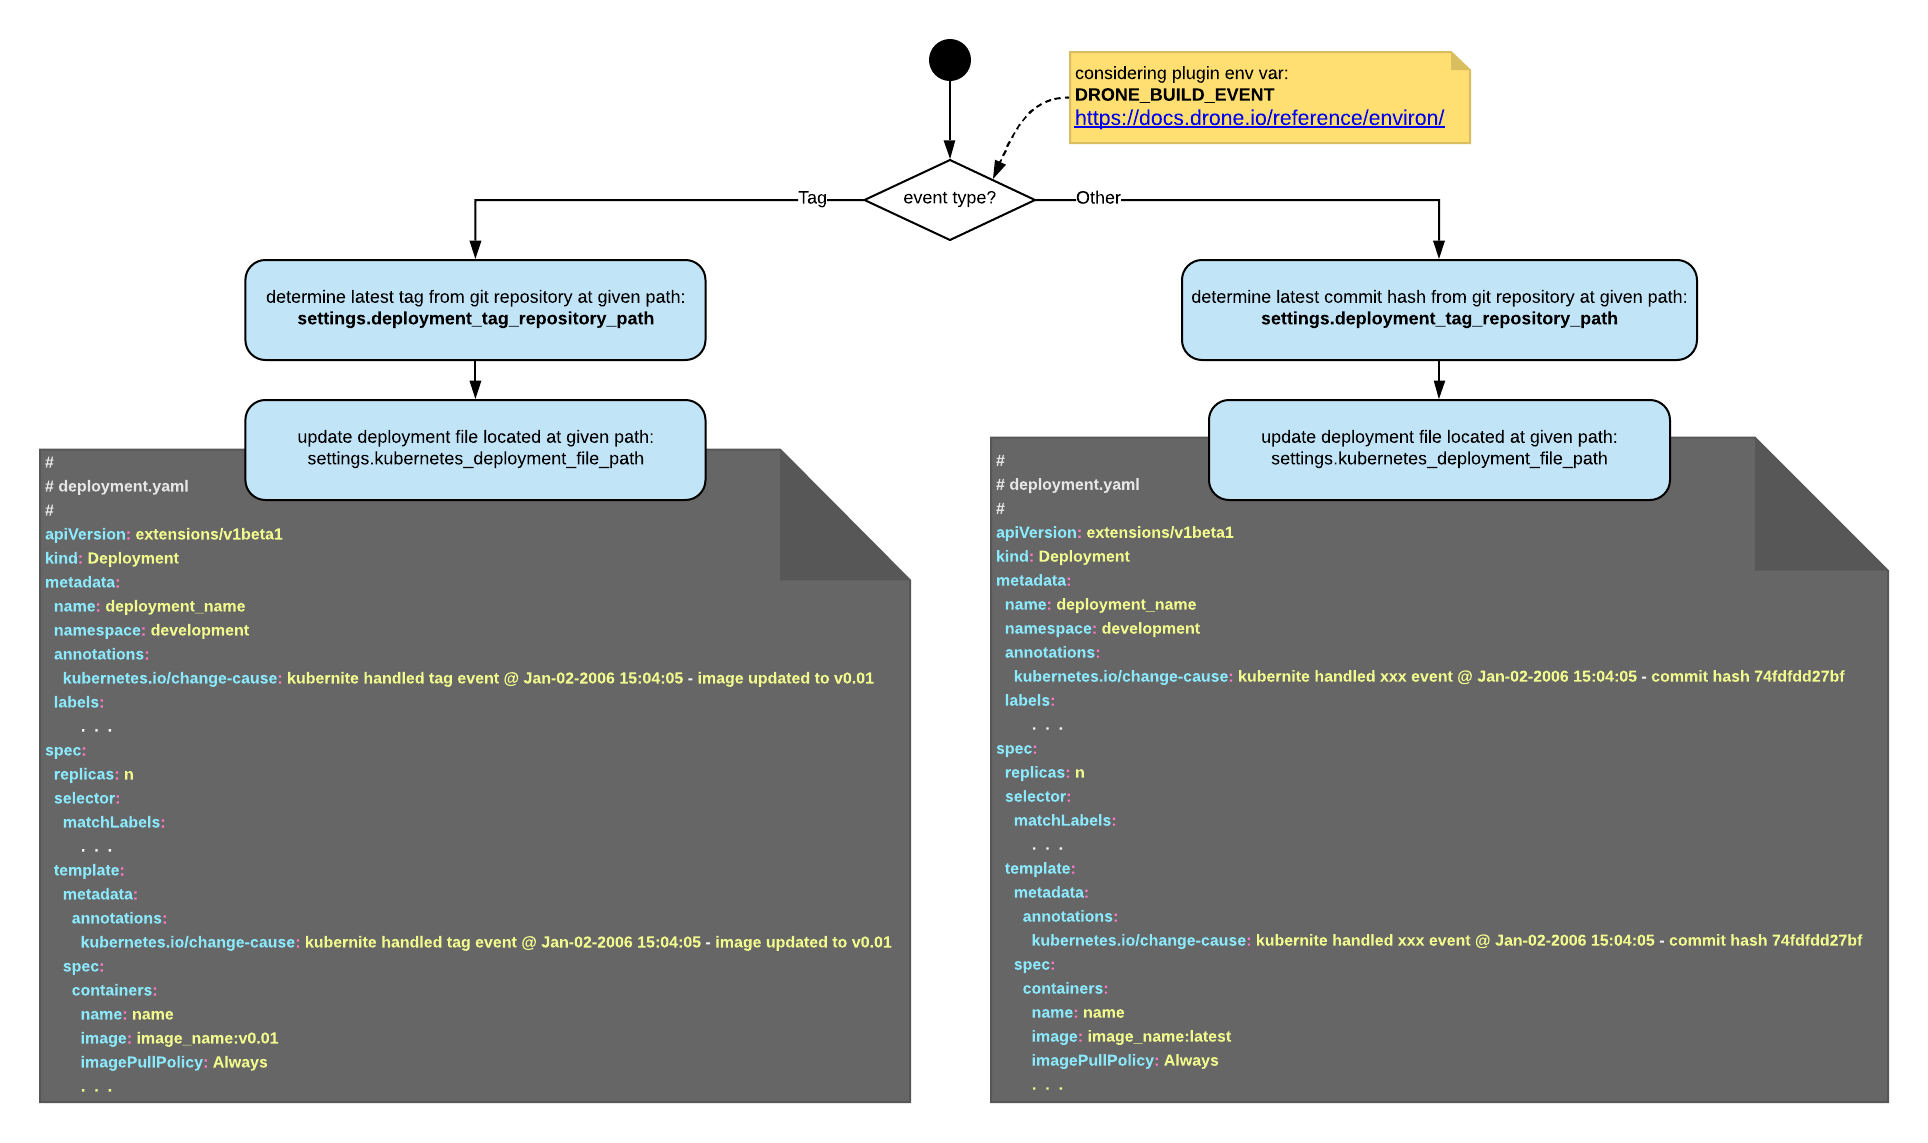
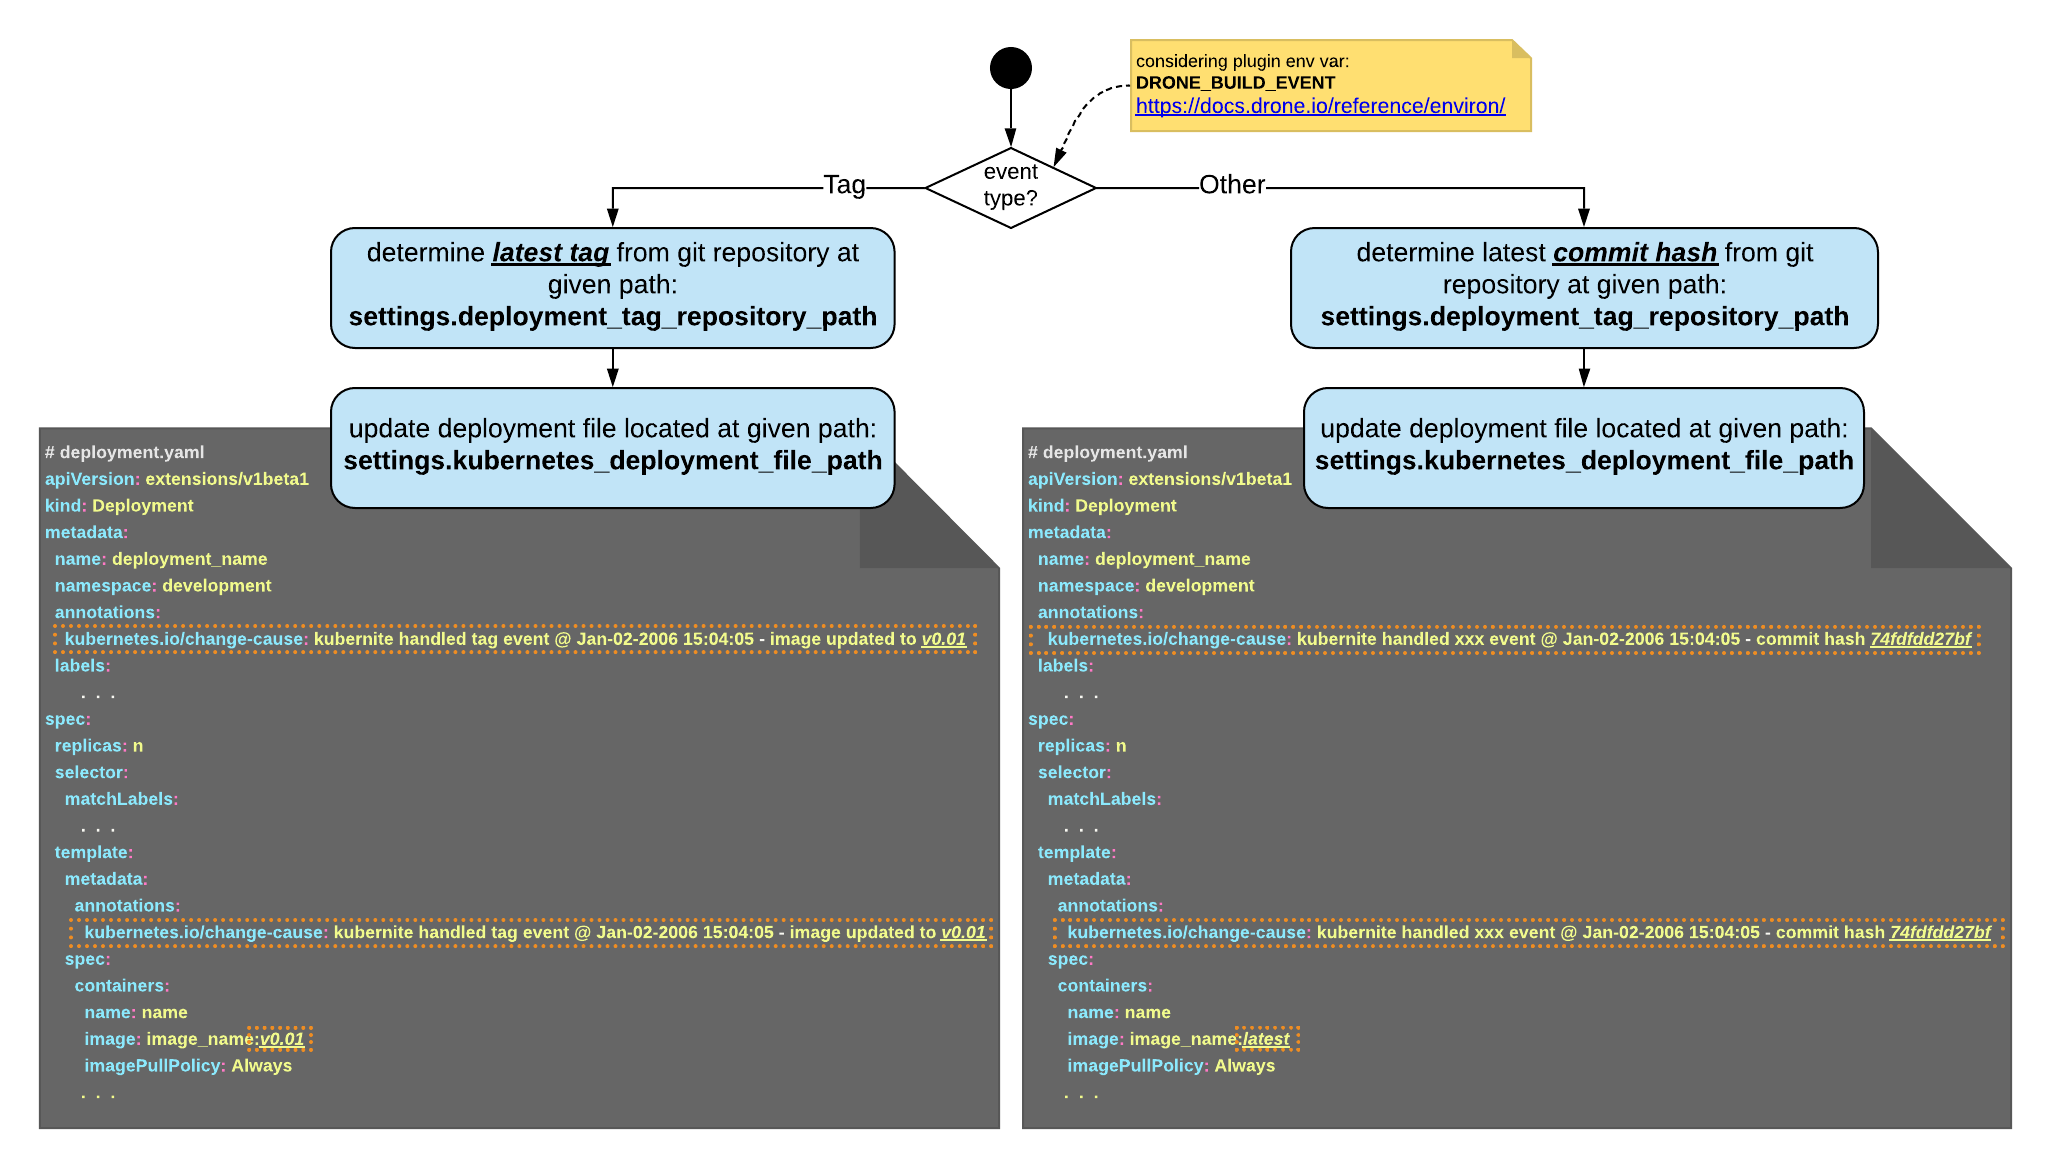
update workflow svg

Changed region(s): [[0.0, 0.0306, 0.9959, 0.9799], [0.4668, 0.0306, 0.4979, 0.0919], [0.9647, 0.4593, 0.9959, 0.4899]]

diff --git a/README.md b/README.md
@@ -4,7 +4,7 @@
 
 Kubernite is a Drone Plugin for Kubernetes written in golang using the official [client-go](https://github.com/kubernetes/client-go) kubernetes api client library.
 ## Working Principle
-![working principle](https://github.com/andile-innovation/kubernite/blob/master/images/work_flow.png?raw=true)
+![working principle](https://raw.githubusercontent.com/andile-innovation/kubernite/master/images/work_flow.svg)
 ## Example Usage
 
 ```yaml
